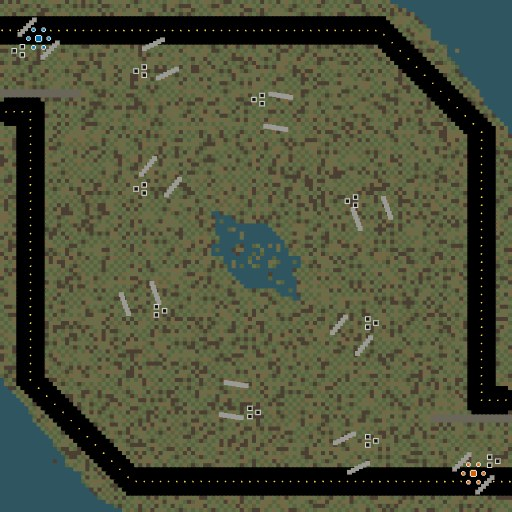
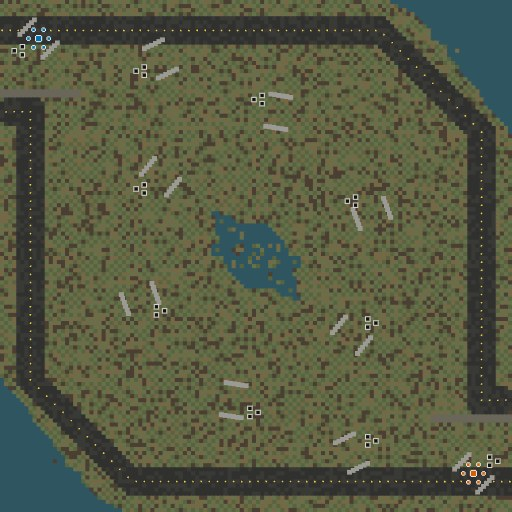
Use charcoal roads on the minimap
Restore the world road palette for revealed minimap terrain while retaining yellow authored-road dots above fog. Regenerate all seven lobby map previews; only the three road-bearing assets change byte content.

Changed region(s): [[0.0, 0.1875, 1.0, 0.9688], [0.0, 0.0312, 1.0, 0.8125]]

diff --git a/client/src/minimap_terrain.js b/client/src/minimap_terrain.js
@@ -9,7 +9,7 @@ const hash2 = (x, y) => {
 };
 
 export const minimapTerrainStyleSignature = () => [
-  COLORS.rock, COLORS.water, COLORS.minimapRoad, COLORS.minimapRoadLine,
+  COLORS.rock, COLORS.water, COLORS.road, COLORS.roadAlt, COLORS.minimapRoadLine,
   COLORS.field, COLORS.mud, COLORS.grass, COLORS.grassAlt,
   ...Object.values(TERRAIN_VARIANT_PALETTES).flatMap(({ base, alt }) => [base, alt]),
 ].join(",");
@@ -46,7 +46,7 @@ export const minimapTerrainColor = (code, tx, ty) => {
   }
   if (code === TERRAIN.ROCK) return COLORS.rock;
   if (code === TERRAIN.WATER) return COLORS.water;
-  if (isRoadTerrain(code)) return COLORS.minimapRoad;
+  if (isRoadTerrain(code)) return hash2(tx, ty) > 0.6 ? COLORS.roadAlt : COLORS.road;
   const n = hash2(tx, ty);
   if (n > 0.78) return COLORS.field;
   if (n < 0.18) return COLORS.mud;

diff --git a/client/src/config/presentation.js b/client/src/config/presentation.js
@@ -16,7 +16,6 @@ export const COLORS = Object.freeze({
   roadShoulder: 0x5a4934,
   roadShoulderDark: 0x40352a,
   roadLine: 0xd0aa32,
-  minimapRoad: 0x000000,
   minimapRoadLine: 0xf1cb43,
   grid: 0x000000,
   steel: 0x9a9a9a,

diff --git a/docs/design/client-ui.md b/docs/design/client-ui.md
@@ -2168,7 +2168,7 @@ presentation, ownership, capture, backend, parity-gate, and benchmark contracts 
 [client-rendering.md](client-rendering.md) and its active
 [rendering parity ledger](rendering-parity.md).
 
-- Minimap roads use a pure-black surface and draw the authored marked-road tiles as small yellow centerline dots above fog, keeping the route network legible in unexplored territory. The dotted overlay is a cached static layer; bare road tiles widen the black surface without adding markings.
+- Minimap roads reuse the world's deterministic dark-charcoal surface variants so revealed terrain stays visually coherent. Authored marked-road tiles draw small yellow centerline dots above fog, keeping the route network legible in unexplored territory; the dotted overlay is a cached static layer, while bare road tiles widen the charcoal surface without adding markings.
 - Minimap player-owned unit and building blips render above resource blips with a merged one-pixel white outline mask for clustered-icon readability. Their 1.6× maximum size scales linearly from 50% to 100% using supply for units (Rifleman/Worker through Tank) and total Steel + Oil cost for buildings (Tank Trap through City Centre), clamped at both ends; resource blips retain their original size. Legacy vision-only intel uses the same kind-specific scale but renders below the fog overlay and does not use the foreground outline/resource-overlap pass. Positional under-attack alerts use a 2.2-second red pulse with a crisp white inner rim. The nearest local owned unit or building at the alert position strobes its icon interior between white and its team color in 300-millisecond phases for the same duration; the resolved entity keeps flashing if it moves.
 - Layers (back→front): terrain → ground decals → trench terrain → local visual samples → resource nodes → building shadows → buildings →
   building overlays → unit shadows → occupied-trench shadows → occupied-trench lips → units → smoke/ability ground effects → selection rings →
